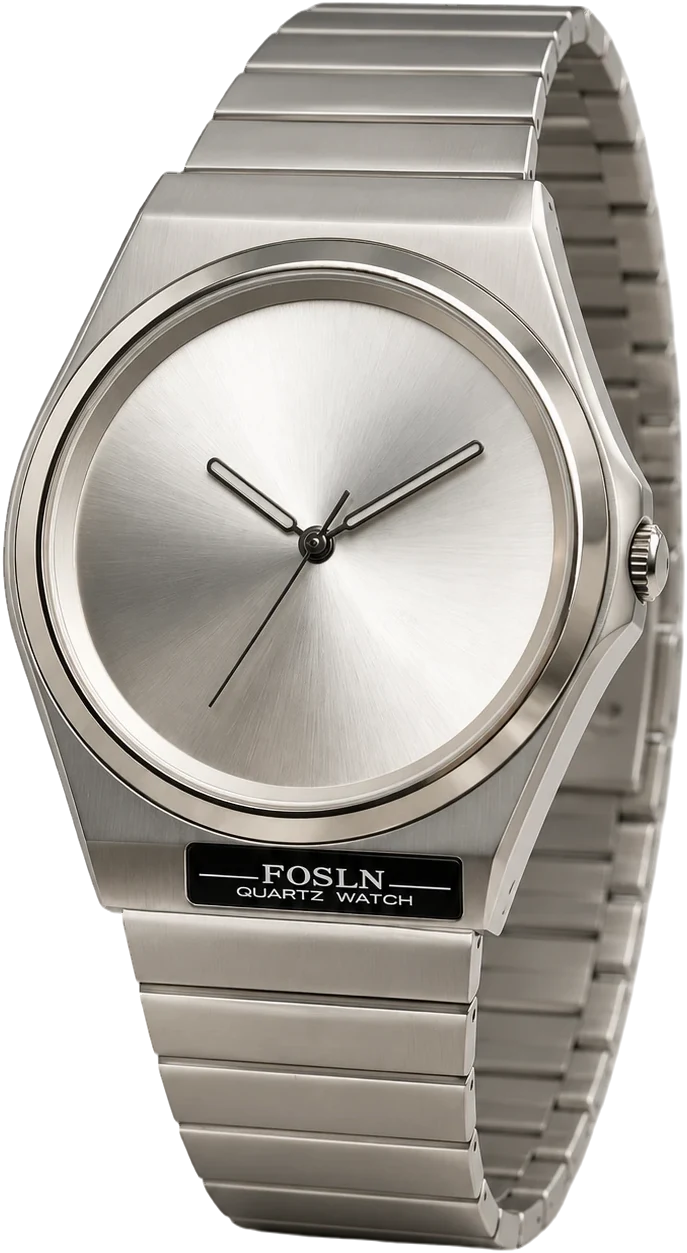
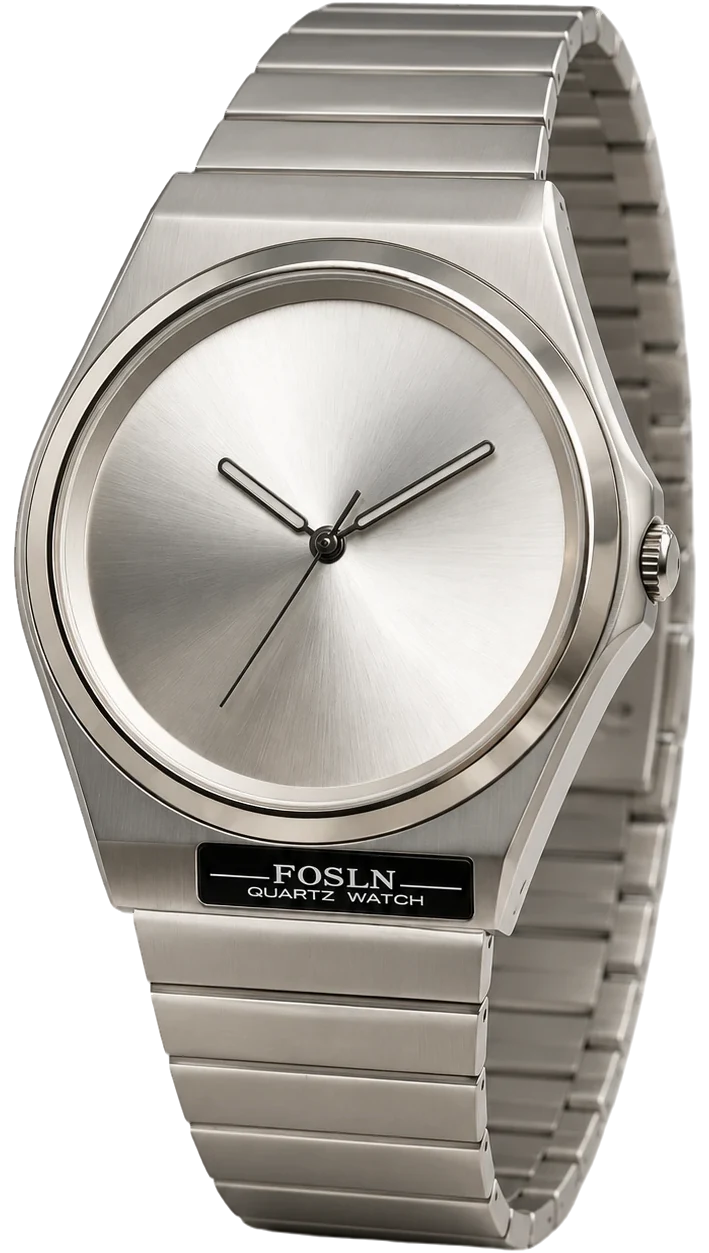
Product card (watch): use the black-dial photo for Onyx
Replace the recoloured Onyx image with a cut-out of the real black-dial
product photo. Both images now share a 709 x 1253 canvas (the watch scaled
to the same height and centred) so the colourway crossfade stays steady;
the media box is widened to match so the watch keeps its size and place.

Claude-Session: https://claude.ai/code/session_01USNSbaj4fcY1X4jUF4TLUx

diff --git a/components/product-card-watch/index.html b/components/product-card-watch/index.html
@@ -120,8 +120,8 @@
         <figure class="ui-wcard__media">
           <span class="ui-wcard__shadow" aria-hidden="true"></span>
           <span class="ui-wcard__float">
-            <img class="ui-wcard__img is-active" data-colorway="chrome" src="images/acier-chrome.webp" width="687" height="1253" alt="FOSLN Acier watch with a chrome sunray dial" decoding="async">
-            <img class="ui-wcard__img" data-colorway="onyx" src="images/acier-onyx.webp" width="687" height="1253" alt="FOSLN Acier watch with a black sunray dial" decoding="async" aria-hidden="true">
+            <img class="ui-wcard__img is-active" data-colorway="chrome" src="images/acier-chrome.webp" width="709" height="1253" alt="FOSLN Acier watch with a chrome sunray dial" decoding="async">
+            <img class="ui-wcard__img" data-colorway="onyx" src="images/acier-onyx.webp" width="709" height="1253" alt="FOSLN Acier watch with a black dial" decoding="async" aria-hidden="true">
           </span>
         </figure>
 

diff --git a/components/product-card-watch/style.css b/components/product-card-watch/style.css
@@ -231,9 +231,9 @@
 .ui-wcard__media {
   position: absolute;
   top: calc(var(--ui-wcard-inset-top) + 150 * var(--u));
-  left: calc(82 * var(--u));
-  width: calc(230 * var(--u));
-  aspect-ratio: 687 / 1253;
+  left: calc(78 * var(--u));
+  width: calc(237 * var(--u));
+  aspect-ratio: 709 / 1253;
   margin: 0;
   z-index: 2;
   pointer-events: none;

diff --git a/components/product-card-watch/README.md b/components/product-card-watch/README.md
@@ -15,7 +15,7 @@ The watch edition of the [product card](../product-card/), for the FOSLN ACIER q
   - the steel warmed slightly, as it would be in that light
 - **Colours:** two colourways, named after the dial:
   - **Chrome, golden hour:** stone black with an amber glow, a champagne wordmark, gold spec line and a gold button. The chrome dial is warmed slightly.
-  - **Onyx, after dark:** deeper and cooler, the glow down to an ember, an ivory wordmark and a silver button. It has the black dial and no warming.
+  - **Onyx, after dark:** deeper and cooler, the glow down to an ember, an ivory wordmark and a silver button. It uses the black-dial photo, with no warming.
 
   Picking one crossfades the watch photo and blends every colour across.
 - **Button:** one centred "Add to cart" label with a small cart icon, and no side note. After an add it reads "✓ Added". If the add fails, the error message takes the label's place for a few seconds. When the dial is sold out it reads "Sold out" and dims. A short note on the right (such as "Free returns") is still possible: add a `.ui-wcard__cta-note` span, and the label moves left to make room.
@@ -45,7 +45,7 @@ Plain HTML, CSS and vanilla JS, no dependencies. Classes are prefixed `ui-wcard`
 | `index.html` | Demo page: the card inside a phone frame with a status bar |
 | `style.css` | Component styles and the Chrome and Onyx themes |
 | `script.js` | Swatches, add to cart, entrance and pointer parallax |
-| `images/acier-*.webp` | Transparent watch cut-outs, chrome and black dial (687 × 1253) |
+| `images/acier-*.webp` | Transparent watch cut-outs, chrome and black dial, on the same 709 × 1253 canvas |
 | `shopify/ui-wcard.liquid` | Shopify section: the card for a real product, with one block per colourway |
 | `shopify/ui-wcard-shopify.js` | Shopify connection: variants, real add to cart, header cart count |
 
@@ -196,6 +196,6 @@ The `shopify/` folder turns the card into a theme section for a real product.
 
 ## Product images
 
-The cut-outs are transparent WebP files with the watch filling the frame (687 × 1253). The Onyx image is the chrome photo with the dial recoloured: a black sunray that keeps the brushed streaks, polished steel hands, and white lume. Swap in a real photo of the black-dial watch when you have one.
+Both cut-outs are transparent WebP files cut from product photos: the chrome-dial watch and the black-dial watch. They share one canvas (709 × 1253) with the watch scaled to the same height and centred, so the crossfade between colourways stays steady.
 
 To use another product, export a transparent PNG/WebP per colourway. If the aspect is different, update `aspect-ratio`, `width` and `top` on `.ui-wcard__media`. If the wordmark has a different number of letters, adjust `font-size` on `.ui-wcard__title`; it's 132 units for five letters, and the original card uses 140 for four.
